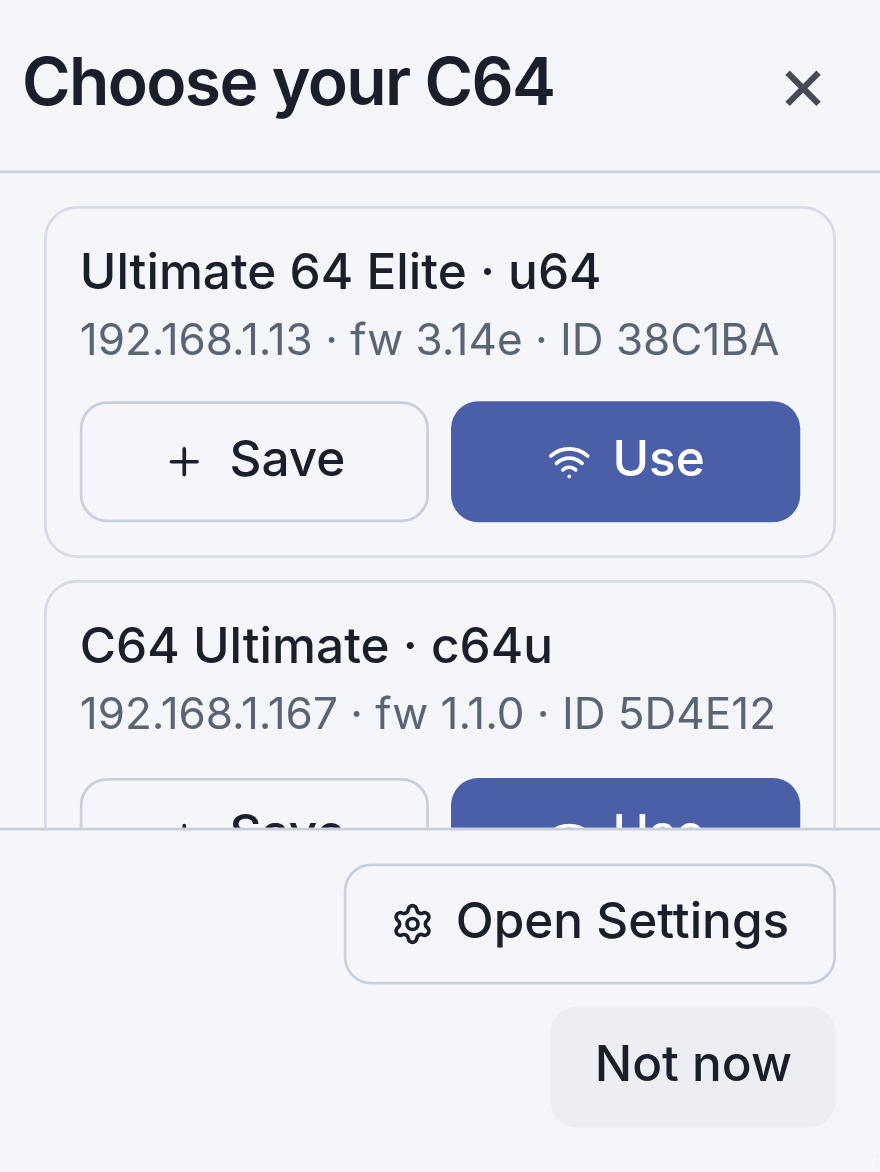
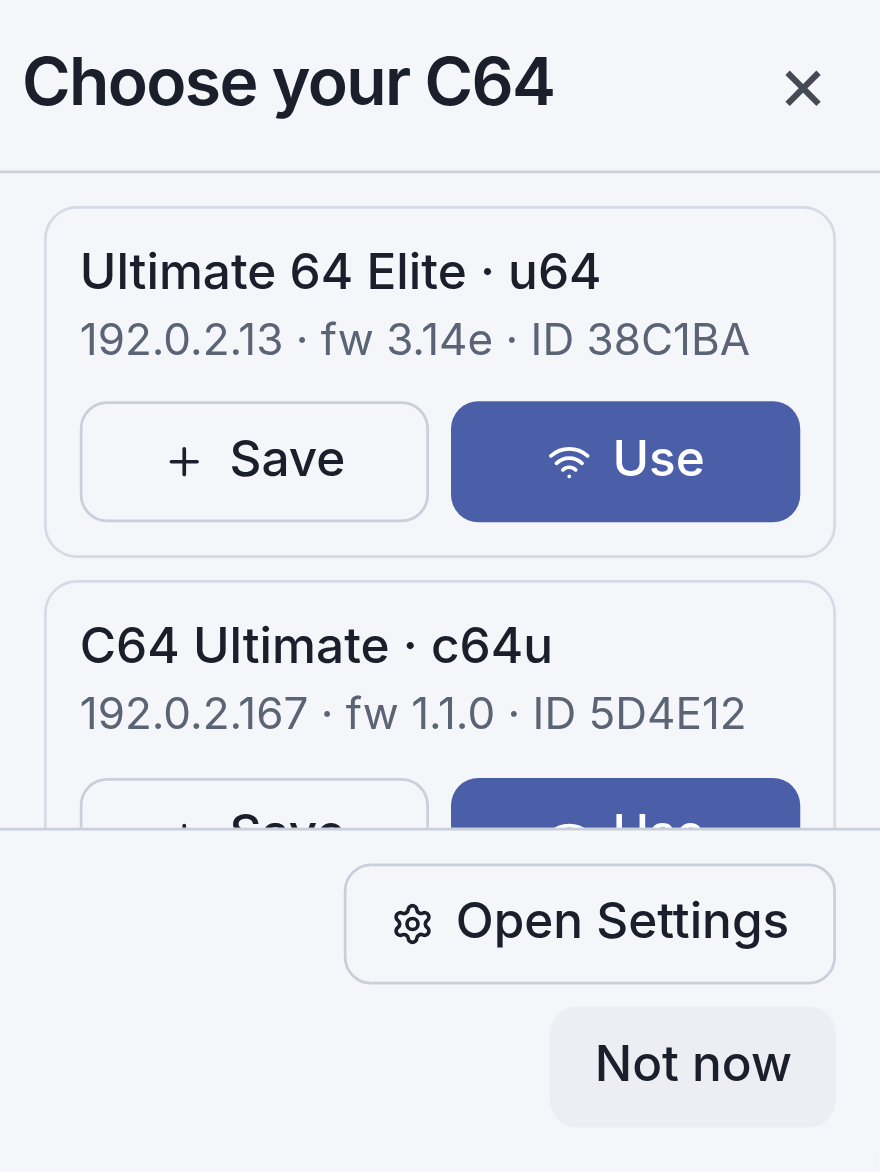
test: show documentation addresses in the discovery screenshot
The device discovery interstitial screenshot injected two candidates at
192.168.1.13 and 192.168.1.167, the bench's real Ultimate 64 Elite and
C64 Ultimate addresses, and the published PNG showed them.

The candidates now use 192.0.2.13 and 192.0.2.167. Only
docs/img/app/launch/discovery/startup-autodiscovery-interstitial.png was
regenerated, by running "capture device discovery interstitial screenshot"
on its own; it shows the new addresses and no other change.

Changed region(s): [[0.1841, 0.5836, 0.8898, 0.6451], [0.1841, 0.2765, 0.8898, 0.3072]]

diff --git a/playwright/screenshots.spec.ts b/playwright/screenshots.spec.ts
@@ -4181,10 +4181,11 @@ test.describe("App screenshots", () => {
       allowWarnings(testInfo, "Expected probe failures while the selected device is unreachable during discovery.");
 
       // Injected so the web discovery facade returns candidates (a browser cannot
-      // LAN-scan). Mirrors the two real lab devices so the dialog reads naturally.
+      // LAN-scan). Two typical devices on RFC 5737 documentation addresses, so the
+      // published screenshot shows no real network.
       const discoveryCandidates = [
         {
-          address: "192.168.1.13",
+          address: "192.0.2.13",
           host: "u64",
           httpPort: 80,
           source: ["lan-scan"],
@@ -4194,7 +4195,7 @@ test.describe("App screenshots", () => {
           uniqueId: "38C1BA",
         },
         {
-          address: "192.168.1.167",
+          address: "192.0.2.167",
           host: "c64u",
           httpPort: 80,
           source: ["lan-scan"],
